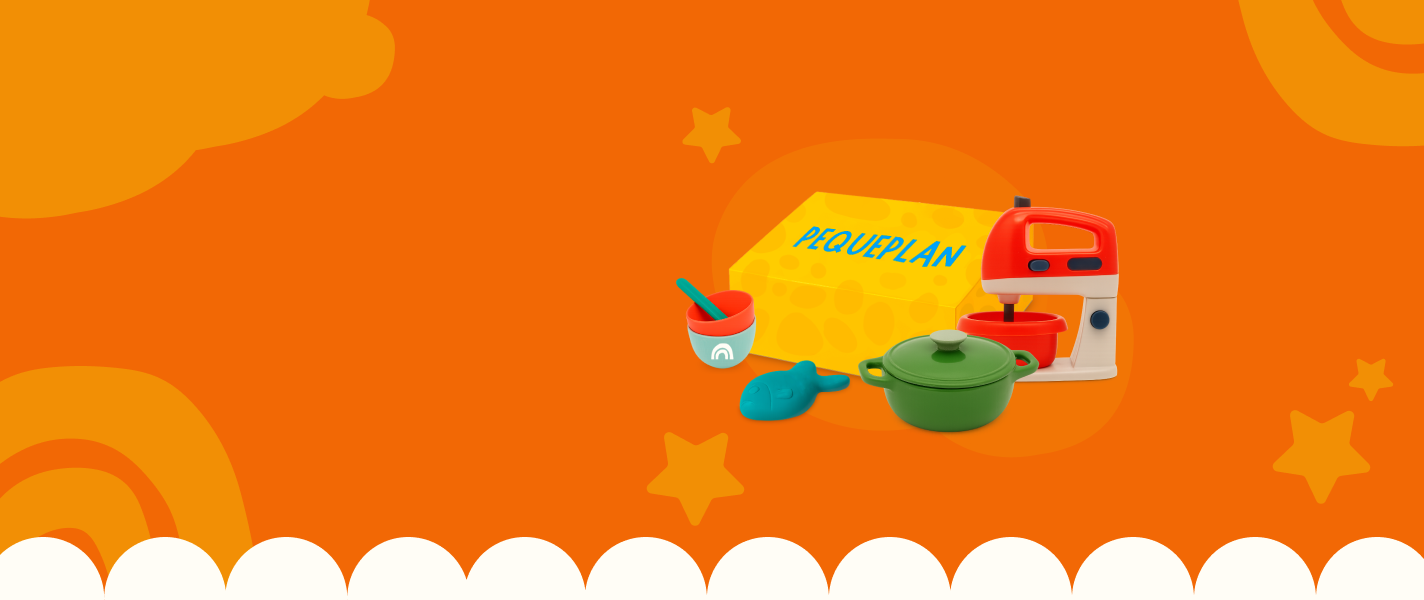
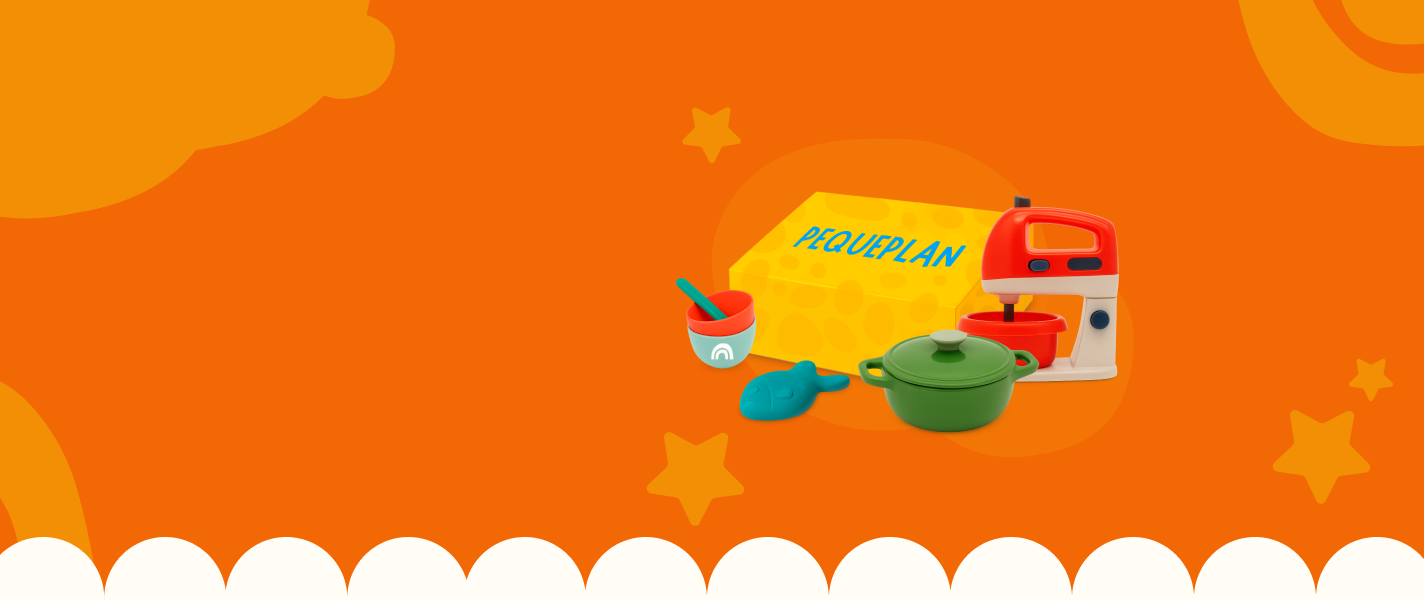
entregafinal

Changed region(s): [[0.0, 0.6, 0.1854, 0.96]]

diff --git a/home.html b/home.html
@@ -56,9 +56,9 @@
         margin-bottom: 32px !important;
       }
     }
-    @media (min-width: 768px) and (max-width: 991.98px) {
+    @media (min-width: 768px) and (max-width: 1199.98px) {
       .pricing .pricing-item {
-        max-width: 320px;
+        max-width: 340px;
         margin-left: auto;
         margin-right: auto;
       }
@@ -67,7 +67,39 @@
       .navmenu a:hover,
       .navmenu .active,
       .navmenu .active:focus {
-        color: var(--nav-dropdown-hover-color);
+        color: #0CA1F5 !important;
+      }
+    }
+    #pricing.pricing.section {
+      min-height: 600px; /* Ajusta el valor según lo que necesites */
+    }
+    @media (max-width: 1199px) {
+      .pricing h4 {
+        font-size: 36px !important;
+      }
+    }
+    @media (max-width: 768px) {
+      .pricing h4 {
+        font-size: 28px !important;
+      }
+    }
+    @media (min-width: 768px) and (max-width: 1199.98px) {
+      .detalle-page .pricing .pricing-item {
+        max-width: 280px;
+        padding-left: 18px;
+        padding-right: 18px;
+        margin-left: auto;
+        margin-right: auto;
+      }
+      .detalle-page .pricing .buy-btn {
+        padding-left: 0 !important;
+        padding-right: 0 !important;
+        width: 100%;
+        min-width: 0;
+        max-width: 220px;
+        margin-left: auto;
+        margin-right: auto;
+        display: block;
       }
     }
   </style>
@@ -107,7 +139,7 @@
             <h1>Una nueva forma de jugar</h1>
             <p style="color:#FFFDF6;">Kits divertidos para explorar, jugar sin pantallas y disfrutar en familia.</p>
             <div class="d-flex justify-content-start justify-content-center-mobile">
-              <a href="#about" class="btn-get-started">Suscribite ahora</a>
+              <a href="#pricing" class="btn-get-started">Suscribite ahora</a>
             </div>
           </div>
         </div>
@@ -131,8 +163,8 @@
               <img src="assets/img/Icono-section1.svg" alt="Elije tu kit favorito" class="icono-img icono-pequeplan-grande">
             </div>
             <img src="assets/img/Numero1.png" alt="Número 1" class="mb-2" style="width:40px; height:40px;">
-            <h3 class="sobrepequeplan-item-title">Elije tu kit favorito</h3>
-            <p class="sobrepequeplan-item-desc">Suscribite al kit que más te guste. ¡Tenemos 3 temáticas distintas muy divertidas!</p>
+            <h3 class="sobrepequeplan-item-title">Elegí tu kit favorito</h3>
+            <p class="sobrepequeplan-item-desc">Subscríbete al kit que más te guste. ¡Tenemos 3 temáticas distintas muy divertidas!</p>
           </div>
           <div class="col-lg-4 col-md-6 mx-auto d-flex flex-column align-items-center text-center">
             <div class="icono-circulo mb-3">
@@ -144,10 +176,10 @@
           </div>
           <div class="col-lg-4 col-md-6 d-flex flex-column align-items-center text-center">
             <div class="icono-circulo mb-3">
-              <img src="assets/img/Icono-section3.svg" alt="Descubre Pequeswap" class="icono-img icono-pequeplan-grande">
+              <img src="assets/img/Icono-section3.svg" alt="Descubrí Pequeswap" class="icono-img icono-pequeplan-grande">
             </div>
             <img src="assets/img/Numero3.png" alt="Número 3" class="mb-2" style="width:40px; height:40px;">
-            <h3 class="sobrepequeplan-item-title">Descubre Pequeswap</h3>
+            <h3 class="sobrepequeplan-item-title">Descubrí Pequeswap</h3>
             <p class="sobrepequeplan-item-desc">Podés canjear kits usados por otros kits dentro de la comunidad Pequeplan</p>
           </div>
         </div>
@@ -167,7 +199,7 @@
 
           <div class="col-lg-6 order-2 order-lg-2 content d-flex flex-column justify-content-center">
             <h3><strong>¿Qué es PequePlan?</strong></h3>
-            <p>Pequeplan es una caja quincenal con juegos para niños de 3 a 8 años. Cada kit tiene juegos y materiales seguros pensado para aprender jugando y disfrutar momentos de conexión en familia. ¡Una forma sana de divertirse sin pantallas!</p>
+            <p>PequePlan es una caja quincenal con juegos para niños de 3 a 8 años. Cada kit tiene juegos y materiales seguros pensado para aprender jugando y disfrutar momentos de conexión en familia. ¡Una forma sana de divertirse sin pantallas!</p>
           </div>
 
         </div>
@@ -273,9 +305,7 @@
         <div class="row align-items-center">
           <div class="col-12 text-center text-lg-start mb-4"><!-- Agrego text-lg-start para alinear a la izquierda en web -->
             <img src="assets/img/Imagen_nena.png" alt="Niña jugando" class="d-block d-lg-none" style="width:220px; max-width:100%; border-radius:24px; margin-bottom:16px;">
-            <h2 class="text-lg-start porque-elegir-titulo-web"><!-- Solo clase, sin margin-top inline -->
-              <strong>¿Por qué elegir PequePlan?</strong>
-            </h2>
+            <h2 class="text-lg-start porque-elegir-titulo-web" style="margin-bottom: 16px !important;"><strong>¿Por qué elegir PequePlan?</strong></h2>
           </div>
           <div class="col-lg-7 mb-4 mb-lg-0">
             <div class="porque-elegir-item d-flex flex-column flex-lg-row align-items-center align-items-lg-start mb-4">

diff --git a/assets/css/main.css b/assets/css/main.css
@@ -428,7 +428,7 @@ h6 {
   .navmenu a:hover,
   .navmenu .active,
   .navmenu .active:focus {
-    color: var(--nav-dropdown-hover-color);
+    color: #0CA1F5 !important;
   }
 
   .navmenu .active i,
@@ -2195,7 +2195,7 @@ section,
   content: "";
   position: absolute;
   top: 0; left: 0; right: 0; bottom: 0;
-  background: url('../img/Fondo_otroskit.png') center center no-repeat;
+  background: url('../img/Fondo_seccion4.png') center center no-repeat;
   background-size: cover;
   z-index: 0;
   pointer-events: none;
@@ -2893,4 +2893,52 @@ section h2, .section-title h2 {
 
 .pricing .pricing-item ul li.videos-educativos {
   /* Se elimina la regla especial, ya que todos los li estarán alineados a la izquierda */
+}
+
+@media (max-width: 768px) {
+  .detalle-page .hero h1 {
+    font-size: 28px !important;
+    line-height: 36px !important;
+    margin-bottom: 12px !important;
+    text-align: center !important;
+    margin-left: auto !important;
+    margin-right: auto !important;
+    max-width: 320px !important;
+  }
+  .detalle-page .hero h2 {
+    font-size: 22px !important;
+    margin-bottom: 10px !important;
+    text-align: center !important;
+    margin-left: auto !important;
+    margin-right: auto !important;
+    max-width: 320px !important;
+  }
+  .detalle-page .hero p {
+    font-size: 16px !important;
+    line-height: 22px !important;
+    margin-bottom: 20px !important;
+    text-align: center !important;
+    margin-left: auto !important;
+    margin-right: auto !important;
+    max-width: 320px !important;
+    color: var(--heading-color) !important;
+  }
+  .detalle-page .hero .btn-get-started {
+    display: block !important;
+    margin-left: auto !important;
+    margin-right: auto !important;
+    font-size: 13px !important;
+    padding: 10px 24px !important;
+  }
+  .detalle-page .hero .container {
+    padding-top: 120px !important;
+  }
+}
+
+@media (min-width: 768px) and (max-width: 1199.98px) {
+  .detalle-page .pricing .pricing-item {
+    max-width: 340px;
+    margin-left: auto;
+    margin-right: auto;
+  }
 }

diff --git a/detalle.html b/detalle.html
@@ -70,7 +70,7 @@
         <div class="row gy-4">
           <div class="col-lg-6 d-flex flex-column justify-content-center text-start text-center-mobile">
             <h1 class="detalle-hero-titulo">PequePlan cocina</h1>
-            <h2 class="detalle-hero-precio" style="font-size:2rem; color:#FFFDF6; font-weight:700; margin-bottom:12px;">$23.000/mes</h2>
+            <h2 class="detalle-hero-precio" style="font-size:2rem; color:#FFFDF6; font-weight:700; margin-bottom:12px;">$26.000/mes</h2>
             <p class="detalle-hero-desc" style="color:var(--heading-color);">Todo listo para que el mini chef se ponga en acción.</p>
             <div class="d-flex justify-content-start justify-content-center-mobile">
               <a href="#" class="btn-get-started" style="background:#0CA1F5; border-color:#0CA1F5; color:#fff;">Suscribirme ahora</a>
